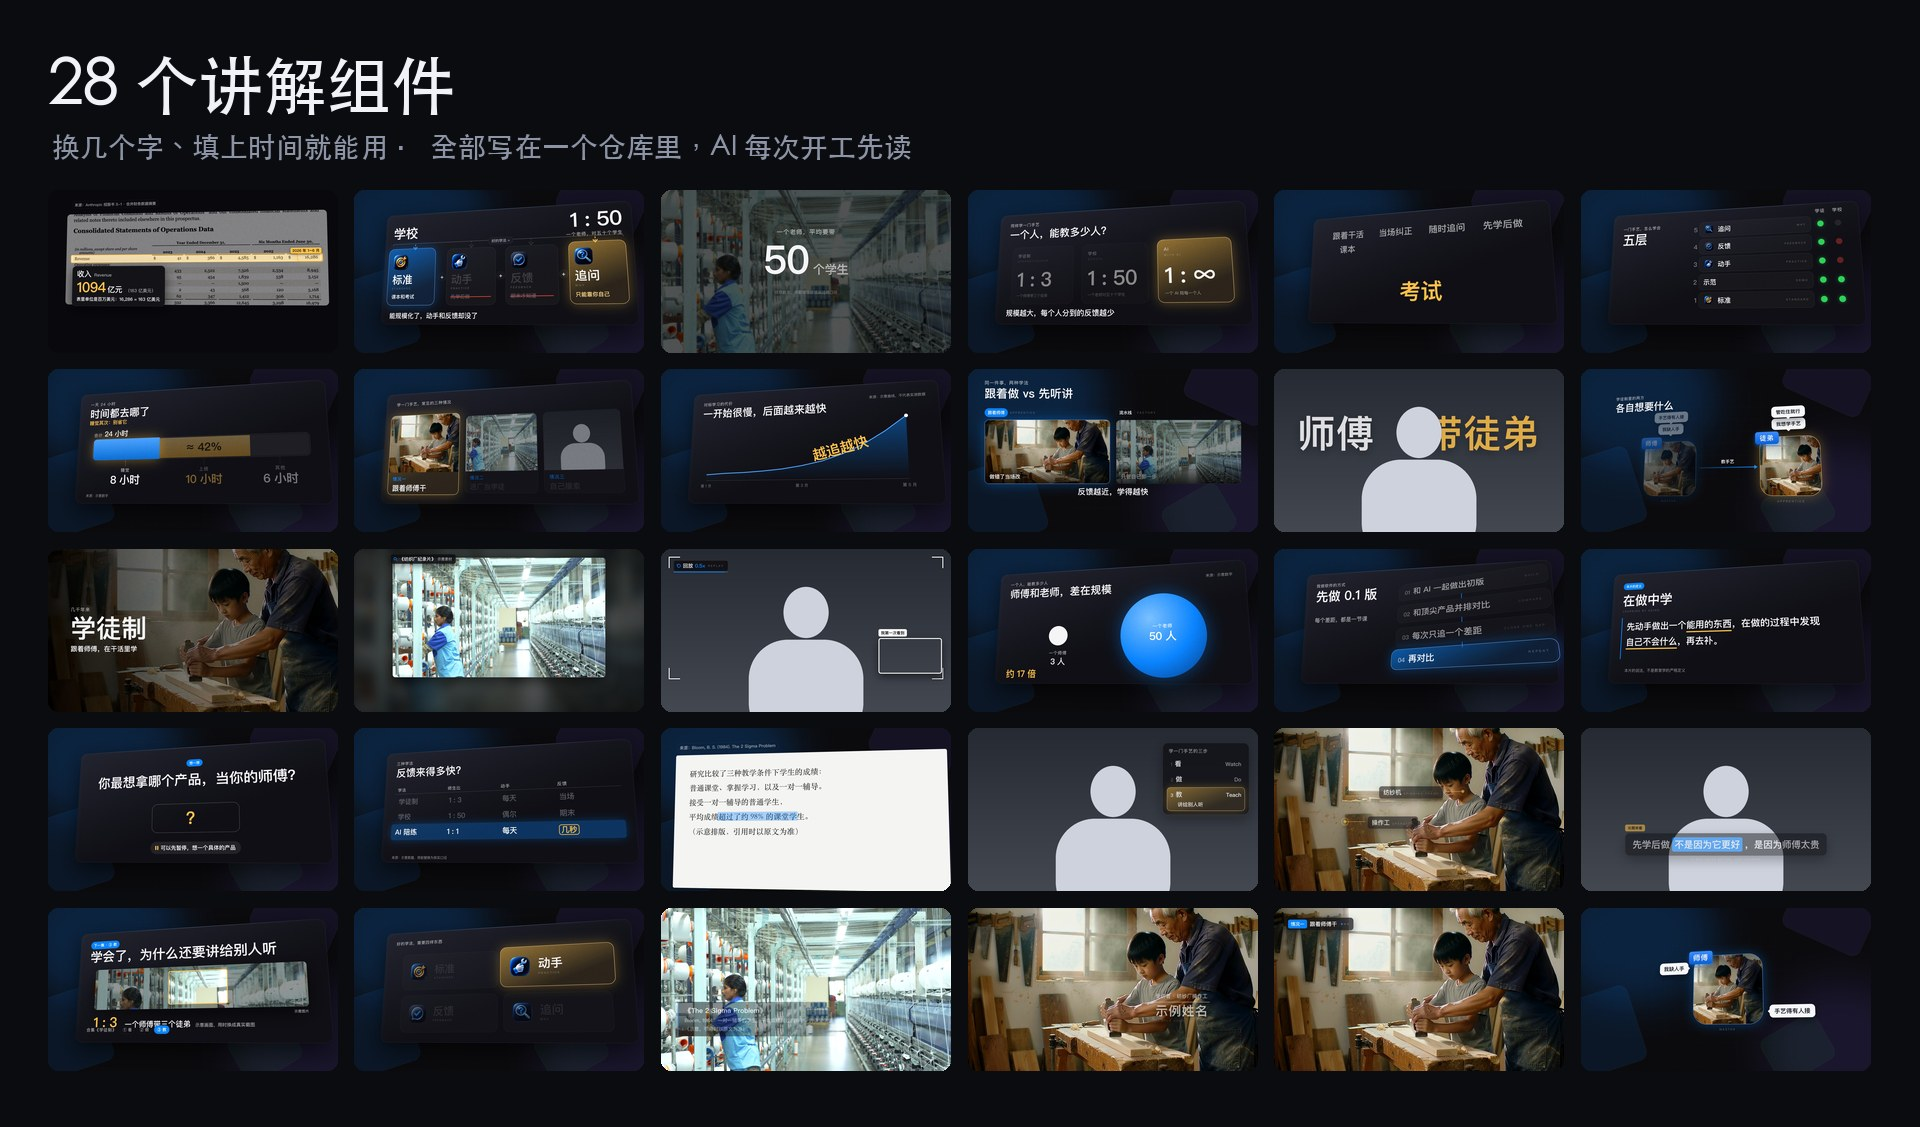
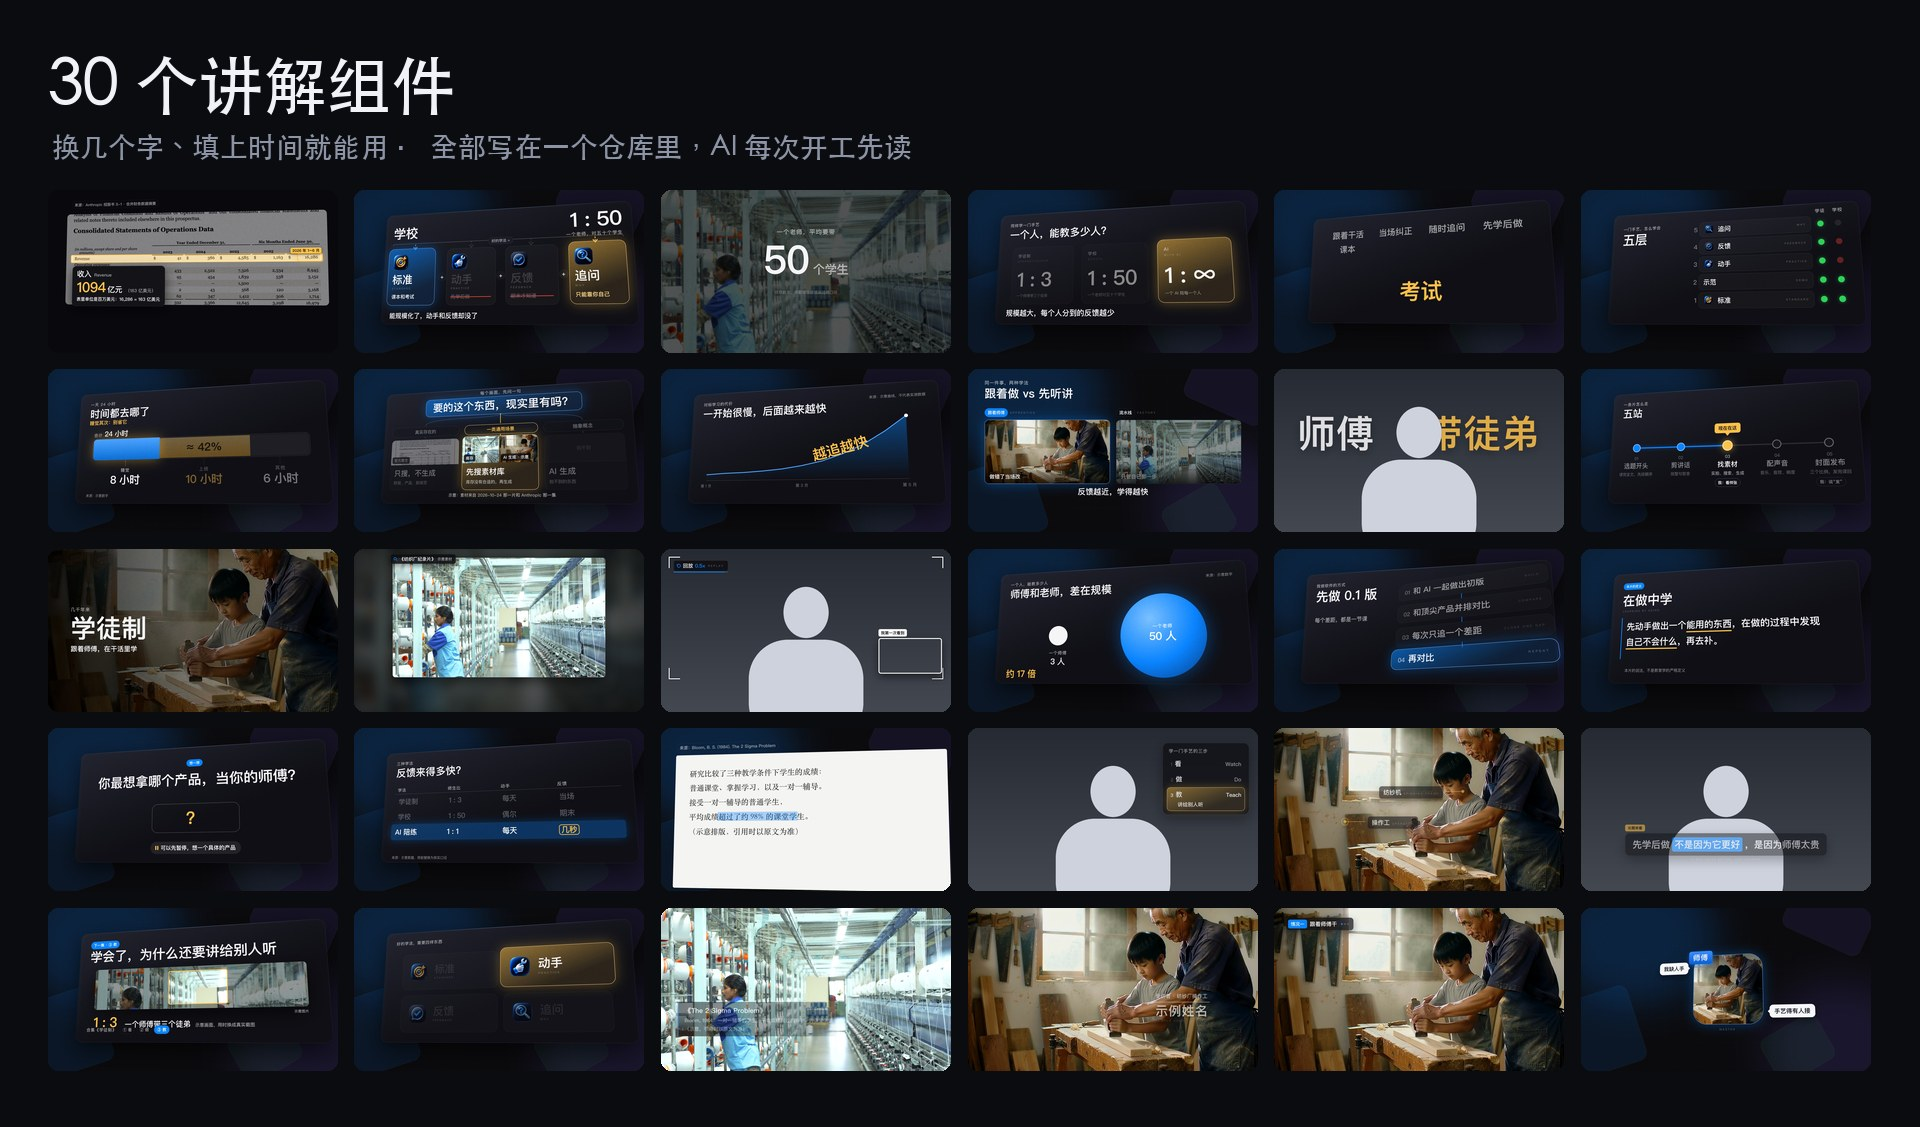
Add routeMap and decisionTree components
- routeMap: a chapter map for long videos; a "you are here" marker moves
  along as each stop is covered
- decisionTree: one question splitting into branches, each with a
  condition, an action and real example images; lights up as narrated
- Gallery samples for both; README wall now shows 30 components

Changed region(s): [[0.1875, 0.3416, 0.3438, 0.4658], [0.8438, 0.3416, 0.9688, 0.4658], [0.0312, 0.0621, 0.0625, 0.0932]]

diff --git a/templates/explainer-kit/kit.js b/templates/explainer-kit/kit.js
@@ -963,6 +963,89 @@ KIT.roleCard = p => {
   };
 };
 
+// 路线图：长片的总地图。几站连成一条线，“现在在这”跟着讲解往前走，走过的站变实心。
+// 每讲完一站回到它，观众始终知道讲到哪、还剩几站。stops[{label,en,sub,me}]：sub 一行小字写这站包含什么，me 写“我”在这站做的事
+// here[[t,i]] 标记移到第 i 站；不给 here 时只画路线
+KIT.routeMap = p => {
+  const n = p.stops.length, L = 300, R = 1620, Y = 470, gap = (R - L) / (n - 1), X = i => L + i * gap;
+  return {
+    dur: p.dur || 6,
+    html: frame(`<div class="panel"></div>
+      <div class="abs" style="left:180px;top:120px"><div class="kicker" id="rk">${p.kicker || ''}</div><div class="h2" style="margin-top:8px" id="rt">${p.title}</div></div>
+      <div class="abs" style="left:${L}px;top:${Y - 4}px;width:${R - L}px;height:8px;border-radius:4px;background:rgba(255,255,255,.12)" id="rl"></div>
+      <div class="abs" style="left:${L}px;top:${Y - 4}px;width:0;height:8px;border-radius:4px;background:var(--accent);box-shadow:0 0 24px rgba(10,132,255,.6)" id="rf"></div>
+      ${p.stops.map((s, i) => `<div class="abs" id="rs${i}" style="left:${X(i) - 30}px;top:${Y - 30}px;width:60px;height:60px;border-radius:50%;border:6px solid rgba(255,255,255,.35);background:#15161c"></div>
+        <div class="abs" id="rx${i}" style="left:${X(i) - gap / 2}px;top:${Y + 60}px;width:${gap}px;text-align:center">
+          <div class="num dim" style="font-size:30px">${String(i + 1).padStart(2, '0')}</div>
+          <div class="h3" style="font-size:46px;margin-top:10px;white-space:nowrap">${s.label}</div>
+          ${s.sub ? `<div style="margin:14px auto 0;width:${gap - 40}px;font-size:28px;font-weight:600;line-height:1.4;color:var(--fg2)">${s.sub}</div>` : ''}
+          ${s.me ? `<div style="margin-top:16px"><span class="pill" style="font-size:26px;color:#fff;border-color:rgba(130,185,255,.7)">我：${s.me}</span></div>` : ''}</div>`).join('')}
+      <div class="abs" id="rh" style="left:0;top:${Y - 150}px;opacity:0"><div style="transform:translateX(-50%);display:flex;flex-direction:column;align-items:center">
+        <span style="padding:12px 26px;border-radius:16px;background:var(--signal);color:#111;font-size:32px;font-weight:800;white-space:nowrap">现在在这</span>
+        <i style="width:0;height:0;border-left:16px solid transparent;border-right:16px solid transparent;border-top:20px solid var(--signal)"></i></div></div>`),
+    render: t => {
+      enter($('#rk'), t, .2); enter($('#rt'), t, .35);
+      css($('#rl'), { transform: `scaleX(${eo3(seg(t, .3, 1.3))})`, transformOrigin: 'left' });
+      const hs = p.here || [], cur = at(hs, t, -1), d = since(hs, t);
+      const prev = hs.filter(([ti]) => ti <= t).slice(-2, -1).map(h => h[1])[0] ?? cur;
+      const pos = cur < 0 ? -1 : lerp(prev, cur, eio3(d / .7));
+      css($('#rf'), { width: `${pos < 0 ? 0 : pos * gap}px` });
+      p.stops.forEach((s, i) => {
+        const t0 = .5 + i * .14, e = spring(t - t0), here = i === cur, past = cur >= 0 && i < pos + .01 && !here;
+        const fx = here ? stateFx('sig', d - .5) : { pop: 1, flash: 1 };
+        css($('#rs' + i), { opacity: clamp((t - t0) / .25), transform: `scale(${(.6 + .4 * e) * fx.pop * (here ? 1.2 : 1)})`, background: here ? 'var(--signal)' : past ? 'var(--accent)' : '#15161c', borderColor: here ? 'rgba(255,224,160,.95)' : past ? 'rgba(130,185,255,.9)' : 'rgba(255,255,255,.35)', boxShadow: here ? `0 0 ${40 * fx.flash}px rgba(255,194,74,.6)` : 'none' });
+        css($('#rx' + i), { opacity: clamp((t - t0 - .1) / .3) * (cur >= 0 && !here ? .5 : 1), transform: `translateY(${(1 - e) * 24}px)` });
+      });
+      const h = $('#rh');
+      css(h, { opacity: cur < 0 ? 0 : clamp(d / .3), left: `${L + Math.max(0, pos) * gap}px`, transform: `translateY(${Math.sin(t * 3) * 6}px)` });
+      frameRender(t, introKeys(0, p.dur || 6));
+    }
+  };
+};
+
+// 决策图：一个问题分出几条路，每条路一个条件、一个做法，做法卡上放一个真实例子。讲到哪条亮哪条，其余压暗。
+// root 是那个问题；branches[{cond,result,sub,en,t,images:[{src,tag,pos}],ph}]：cond 是条件，result 是做法；
+// images 放一到两张真实例子（tag 写出处或“AI 生成 · 示意”），没有图时 ph 写一句占位（如“拍不到”）；t 是这条路出现的时刻，不给就跟着依次出现
+// active[[t,i]] 亮第 i 条；foot 是底部一行小字（口径、补充），footT 出现时刻
+KIT.decisionTree = p => {
+  const n = p.branches.length, gx = 36, W = (1600 - (n - 1) * gx) / n, left = 160, pics = p.branches.some(b => b.images || b.ph);
+  const X = i => left + i * (W + gx), RY = 170, CY = 320, KY = 410, KH = pics ? 360 : 250, IH = 180;
+  const tB = i => p.branches[i].t ?? (.9 + i * .18);
+  return {
+    dur: p.dur || 8,
+    html: frame(`<div class="panel"></div>
+      <div class="abs" style="left:0;right:0;top:${RY - 100}px;text-align:center"><div class="kicker" id="dk">${p.kicker || ''}</div></div>
+      <div class="abs" id="dr" style="left:50%;top:${RY - 50}px;transform:translateX(-50%)"><div class="tile on" style="padding:18px 52px 22px;border-radius:32px;white-space:nowrap"><span class="h2">${p.root}</span></div></div>
+      <svg class="abs" style="left:0;top:0;overflow:visible" width="1920" height="1080">${p.branches.map((b, i) => { const x = X(i) + W / 2; return `<path id="dl${i}" d="M960 ${RY + 74} C960 ${RY + 120} ${x} ${CY - 80} ${x} ${CY - 6}" fill="none" stroke="rgba(130,185,255,.75)" stroke-width="4" pathLength="1" stroke-dasharray="1" stroke-dashoffset="1"/>
+        <path id="dm${i}" d="M${x} ${CY + 70} L${x} ${KY - 6}" fill="none" stroke="rgba(130,185,255,.75)" stroke-width="4" pathLength="1" stroke-dasharray="1" stroke-dashoffset="1"/>`; }).join('')}</svg>
+      ${p.branches.map((b, i) => `<div class="abs" id="dc${i}" style="left:${X(i)}px;top:${CY}px;width:${W}px;height:70px;display:flex;align-items:center;justify-content:center;border-radius:999px;background:rgba(20,22,30,.9);border:2px solid rgba(255,255,255,.18);font-size:32px;font-weight:700;white-space:nowrap">${b.cond}</div>
+        <div class="tile abs" id="dt${i}" style="left:${X(i)}px;top:${KY}px;width:${W}px;height:${KH}px;padding:0;border-radius:30px">
+          ${pics ? `<div class="abs" style="left:0;top:0;right:0;height:${IH}px;display:flex;gap:4px;background:rgba(255,255,255,.03)">${(b.images || []).map(im => `<div style="position:relative;flex:1;overflow:hidden"><img src="${im.src}" style="width:100%;height:100%;object-fit:${im.fit || 'cover'};object-position:${im.pos || 'center'}">${im.tag ? `<span style="position:absolute;left:10px;bottom:10px;padding:5px 14px;border-radius:10px;background:rgba(8,8,12,.8);font-size:26px;font-weight:700;color:var(--fg);white-space:nowrap">${im.tag}</span>` : ''}</div>`).join('') || `<div style="flex:1;display:flex;align-items:center;justify-content:center;border-bottom:2px dashed rgba(255,255,255,.18);font-size:30px;font-weight:700;color:var(--fg3)">${b.ph || ''}</div>`}</div>` : ''}
+          <div class="abs" style="left:28px;right:24px;top:${pics ? IH + 22 : 30}px"><div class="lb" style="font-size:52px;font-weight:800;white-space:nowrap">${b.result}</div>
+          ${b.sub ? `<div style="margin-top:12px;font-size:28px;font-weight:600;line-height:1.4;color:var(--fg2)">${b.sub}</div>` : ''}</div></div>`).join('')}
+      ${p.foot ? `<div class="abs dim" id="df" style="left:0;right:0;top:${KY + KH + 14}px;text-align:center;font-size:28px;font-weight:600">${p.foot}</div>` : ''}`),
+    render: t => {
+      enter($('#dk'), t, .2);
+      css($('#dr'), { opacity: clamp((t - .35) / .3), transform: `translateX(-50%) scale(${.9 + .1 * spring(t - .35)})` });
+      const act = at(p.active || [], t, -1), ad = since(p.active || [], t);
+      p.branches.forEach((b, i) => {
+        const t0 = tB(i), on = act === i, dim = act >= 0 && !on, e = spring(t - t0 - .45);
+        css($('#dl' + i), { strokeDashoffset: 1 - eo3(seg(t, t0, t0 + .45)), stroke: on ? 'var(--signal)' : 'rgba(130,185,255,.75)', opacity: dim ? .3 : 1 });
+        css($('#dm' + i), { strokeDashoffset: 1 - eo3(seg(t, t0 + .35, t0 + .6)), stroke: on ? 'var(--signal)' : 'rgba(130,185,255,.75)', opacity: dim ? .3 : 1 });
+        css($('#dc' + i), { opacity: clamp((t - t0 - .25) / .25) * (dim ? .4 : 1), transform: `scale(${.9 + .1 * spring(t - t0 - .25)})`, borderColor: on ? 'rgba(255,214,140,.95)' : 'rgba(255,255,255,.18)', color: on ? 'var(--signal)' : 'var(--fg)' });
+        const el = $('#dt' + i), fx = on ? stateFx('sig', ad) : { pop: 1, flash: 1, z: 0 };
+        el.className = 'tile abs' + (on ? ' sig' : '');
+        css(el, { opacity: clamp((t - t0 - .45) / .3) * (dim ? .4 : 1), transform: `translateZ(${fx.z}px) translateY(${(1 - e) * 40}px) scale(${(.95 + .05 * e) * fx.pop})`, filter: `brightness(${fx.flash}) saturate(${dim ? .4 : 1})` });
+      });
+      if ($('#df')) css($('#df'), { opacity: clamp((t - (p.footT ?? tB(n - 1) + 1)) / .4) });
+      const keys = introKeys(0, p.dur || 8);
+      (p.active || []).forEach(([ta, i]) => keys.push([ta + .1, keys[keys.length - 1][1]], [ta + .8, push({ x: 960 + (X(i) + W / 2 - 960) * .12, y: 520 }, 1)]));
+      keys.sort((a, b) => a[0] - b[0]);
+      frameRender(t, keys);
+    }
+  };
+};
+
 // ---------- 启动 ----------
 function bootKit(comp, { guides = false, backdrop = '' } = {}) {
   const st = document.createElement('style'); st.textContent = KIT_CSS; document.head.appendChild(st);

diff --git a/templates/explainer-kit/gallery.html b/templates/explainer-kit/gallery.html
@@ -45,6 +45,12 @@ const SAMPLES = {
     { t: 3.6, box: [193, 875, 1252, 30], cell: [1340, 877, 106, 26], col: '2026 年 1–6 月', label: '收入', en: 'Revenue', value: '1094', unit: '亿元', sub: '（163 亿美元）', note: '表里单位是百万美元：16,286 = 163 亿美元' },
     { t: 7.8, box: [193, 1378, 1252, 30], cell: [1340, 1380, 106, 26], col: '2026 年 1–6 月', label: '净亏损', en: 'Net loss', value: '−5420', unit: '亿元', sub: '（−807 亿美元）', note: '算上所有账面项目之后，最后一行' },
   ] }),
+  routeMap: () => KIT.routeMap({ kicker: '一条片怎么走', title: '五站', stops: [{ label: '选题开头', sub: '读完全文，先排顺序' }, { label: '剪讲话', sub: '按整句取舍' }, { label: '找素材', sub: '实拍、搜索、生成', me: '看样张' }, { label: '配声音', sub: '音乐、音效、响度' }, { label: '封面发布', sub: '三个比例，发完读回', me: '说“发”' }], here: [[1.6, 0], [3.2, 2]], dur: 6 }),
+  decisionTree: () => KIT.decisionTree({ kicker: '每个画面，先问一句', root: '要的这个东西，现实里有吗？', dur: 9,
+    branches: [{ cond: '真实存在的', result: '只搜，不生成', sub: '财报、产品、新闻页', images: [{ src: A + 'doc-s1.png', tag: '官方原文', pos: 'center 35%' }] },
+      { cond: '一类通用场景', result: '先搜素材库', sub: '库存没有合适的，再生成', images: [{ src: A + 'factory.jpg', tag: '库存' }, { src: A + 'apprentice.jpg', tag: 'AI 生成 · 示意' }] },
+      { cond: '抽象概念', result: 'AI 生成', sub: '拍不到的东西', ph: '拍不到' }],
+    active: [[4, 0], [6, 1]], foot: '示意：素材来自 2026-10-24 那一片和 Anthropic 那一集', footT: 3 }),
   roleCard: () => KIT.roleCard({ roles: [{ label: '师傅', en: 'Master', photo: A + 'apprentice.jpg', pos: '85% 20%', says: [{ text: '我缺人手', t: .9 }, { text: '手艺得有人接', t: 1.5 }] }], dur: 6 }),
   roleCard2: () => KIT.roleCard({ kicker: '学徒制里的两方', title: '各自想要什么', roles: [{ label: '师傅', en: 'Master', photo: A + 'apprentice.jpg', pos: '85% 20%', says: [{ text: '我缺人手', t: 1 }, { text: '手艺得有人接', t: 1.4 }] }, { label: '徒弟', en: 'Apprentice', photo: A + 'apprentice.jpg', pos: '45% 40%', says: [{ text: '我想学手艺', t: 1.8 }, { text: '管吃住就行', t: 2.2 }] }], links: [{ from: 0, to: 1, label: '教手艺', t: 3 }, ], active: [[5, 1]], dur: 8 }),
 };

diff --git a/templates/explainer-kit/README.md b/templates/explainer-kit/README.md
@@ -60,6 +60,8 @@ node lint.js 'gallery.html#formula'                                  # 体检
 | `categoryNav` | 几个并列部分，当前项亮；每项给 `image` 时变成一排画面卡，讲之前先把几种情况一起亮出来 | `items[{label,en,icon,kicker,image,pos}]`、`active[[t,i]]` |
 | `layerStack` | N 层 / N 项逐项推进，回全景对比 | `items[{label,en,icon,sub}]`、`active`、`overview`、`compare{cols,marks,t}`、`bottomUp` |
 | `chain` | 有先后顺序的流程 | `steps[{label,en,t,sub}]` |
+| `routeMap` | 长片的总地图：几站连成一条线，“现在在这”跟着往前走，每讲完一站回来一次。只做导航，一次 3–4 秒，前后要接真实画面 | `stops[{label,sub,me}]`（`me` 写“我”在这站做的事）、`here[[t,i]]` |
+| `decisionTree` | 一个问题分几条路：每条一个条件、一个做法，做法卡上放过去片子里的真实例子；讲到哪条亮哪条 | `root`、`branches[{cond,result,sub,images[{src,tag,pos,fit}],ph,t}]`、`active[[t,i]]`、`foot`、`footT` |
 | `formula` | 贯穿全片、逐项长大的主线 | `eq`、`slots`、`changes`（每格 `[t,'on'|'off'|'wait'|'sig',说明]`）、`header` |
 | `docZoom` | 真实截图（财报、条款、网页）：整页一眼 → 推到那一行 → 画住 + 压暗其余 → 中文翻译标签；一行一步 | `image`、`iw`、`ih`、`steps[{t,box,cell,col,label,en,value,unit,sub,note,tone,hold,win,tagX,tagY}]`、`source`、`startStep`、`win`（图表、目录这种要整张露出的，给那一步 `win:[x,y,w,h]`；高的框用 `tagX/tagY` 把标签放到空处） |
 | `evidence` | 没有截图、只有文字时的原文示意（有截图一律用 `docZoom`） | `cover`、`lines`、`hl{line,from,to,t}`、`source` |

diff --git a/README.md b/README.md
@@ -2,12 +2,12 @@
 
 一套写给 AI 读的剪辑系统：用 Claude Code 或 Codex 打开这个文件夹，它就知道该怎么帮你剪口播和讲解视频。
 
-![28 个讲解组件](docs/assets/component-wall.jpg)
+![30 个讲解组件](docs/assets/component-wall.jpg)
 
 里面是一个人用 AI 做了一个月视频攒下来的东西：
 - 13 条剪辑原则；
 - 一条片从原片到发布的 10 步工序；
-- 28 个讲解画面组件；
+- 30 个讲解画面组件；
 - 16 条踩坑记录；
 - 5 位头部创作者的拆解。
 
